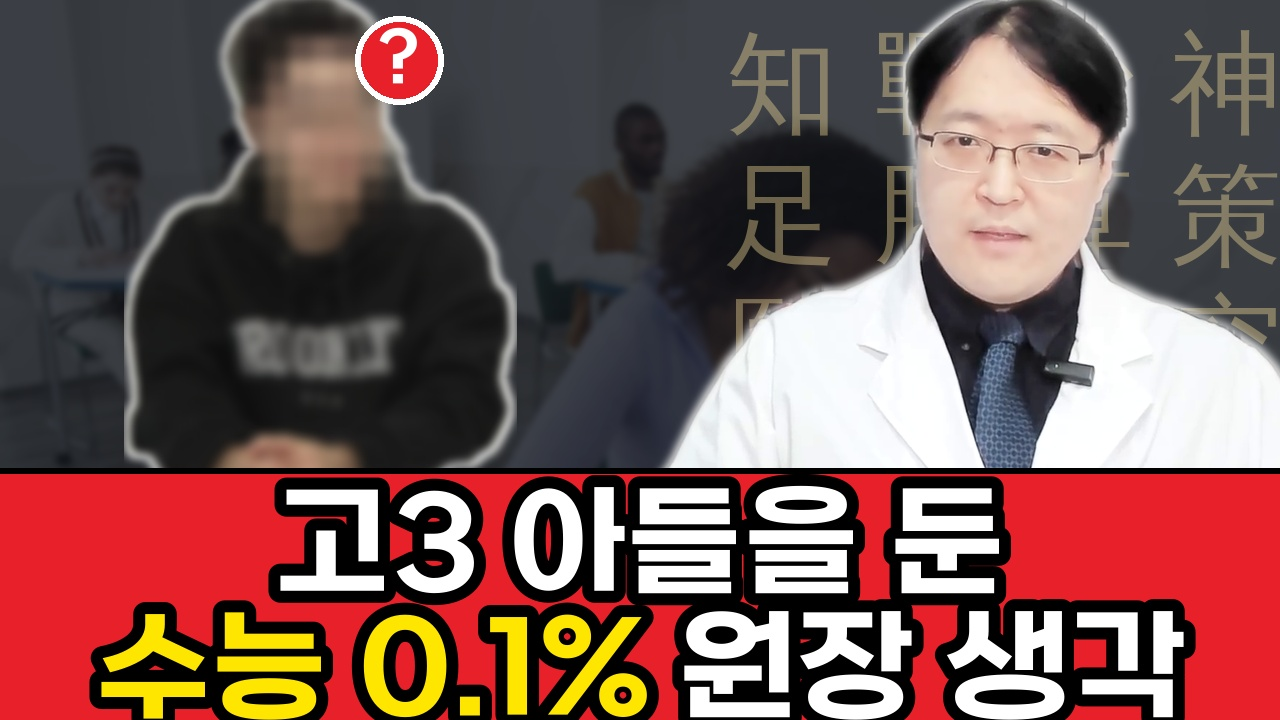
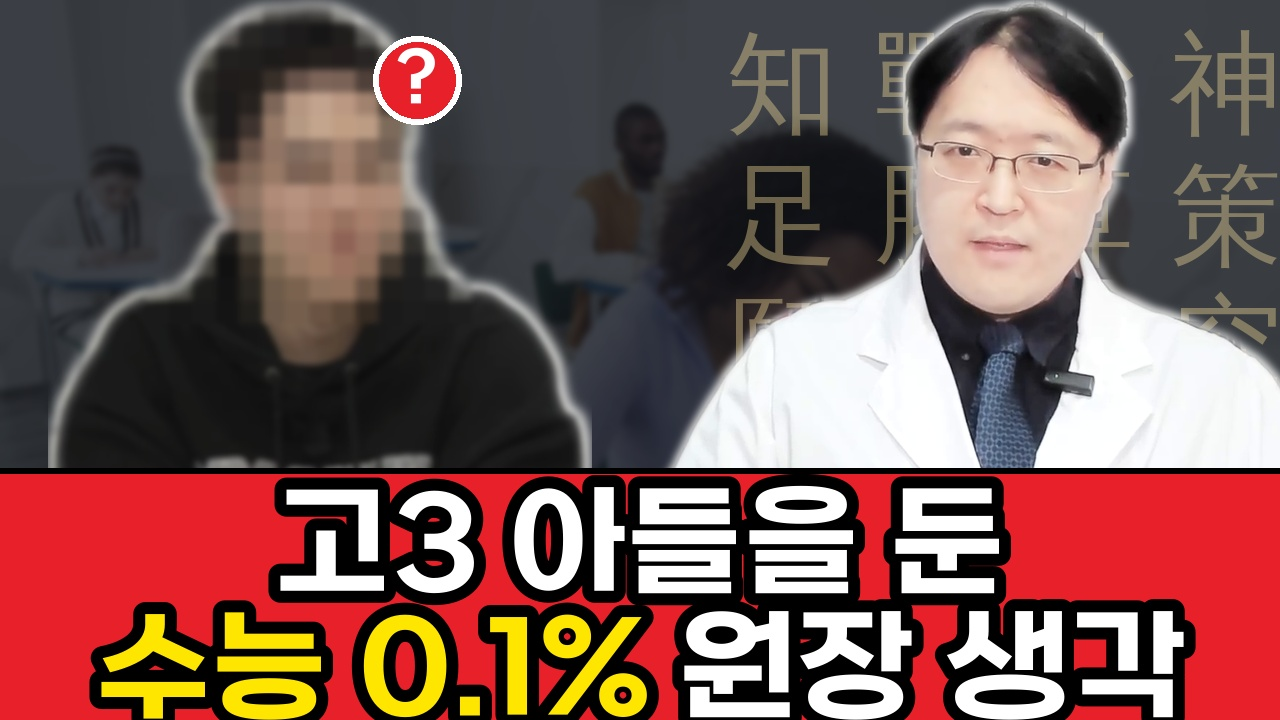
신책구천문 썸네일 F: 머리 크기 맞춤, 블러 약하게
Claude-Session: https://claude.ai/code/session_01W5aJ6RjiqXjewxs5XWe8qJ

Changed region(s): [[0.0312, 0.0, 0.4688, 0.6722], [0.5625, 0.0, 1.0, 0.6722], [0.5, 0.5194, 0.5625, 0.6722]]

diff --git a/scripts/make_thumbnail_duo.py b/scripts/make_thumbnail_duo.py
@@ -47,19 +47,21 @@ def main():
     band_h = cfg.get("band_h", 250)
     top = H - band_h + cfg.get("overlap", 40) - ph  # 사람 아랫부분은 띠 뒤로 조금 들어간다
     L, R = cfg["left"], cfg["right"]
-    li, lm = cut(L, ph)
-    ri, rm = cut(R, ph)
+    # 사람마다 높이를 따로 줄 수 있다 (사진에 몸이 더 많이 나온 쪽은 키워야 머리 크기가 비슷해진다, 2026-11-18)
+    li, lm = cut(L, L.get("h", ph))
+    ri, rm = cut(R, R.get("h", ph))
     lx = L.get("x", W // 4 - li.width // 2)
     rx = R.get("x", 3 * W // 4 - ri.width // 2)
     # 사람 둘레 얇은 흰 테두리 (배경과 떨어져 보이게)
-    for img, m, x in ((li, lm, lx), (ri, rm, rx)):
+    for img, m, x, sp in ((li, lm, lx, L), (ri, rm, rx, R)):
+        y = sp.get("y", top)
         edge = m.filter(ImageFilter.MaxFilter(cfg.get("outline", 7)))
-        canvas.paste(Image.new("RGB", img.size, "white"), (x, top), edge)
-        canvas.paste(img, (x, top), m)
+        canvas.paste(Image.new("RGB", img.size, "white"), (x, y), edge)
+        canvas.paste(img, (x, y), m)
     d = ImageDraw.Draw(canvas)
     if L.get("badge"):
         f = ImageFont.truetype(AGGRO, 64)
-        cx, cy = lx + int(li.width * L.get("badge_x", 0.7)), top + L.get("badge_y", 70)
+        cx, cy = lx + int(li.width * L.get("badge_x", 0.7)), L.get("y", top) + L.get("badge_y", 70)
         d.ellipse([cx - 44, cy - 44, cx + 44, cy + 44], fill="#E8202A", outline="white", width=6)
         d.text((cx, cy + 2), L["badge"], font=f, fill="white", anchor="mm")
     # 아래 빨간 띠 전체 + 큰 글자 2줄 (줄마다 [글자, 색] 조각을 이어 쓴다)
